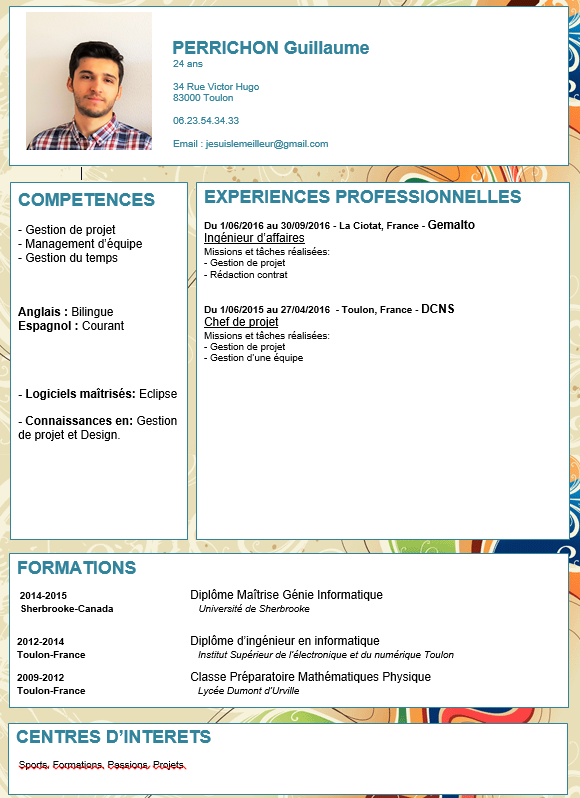
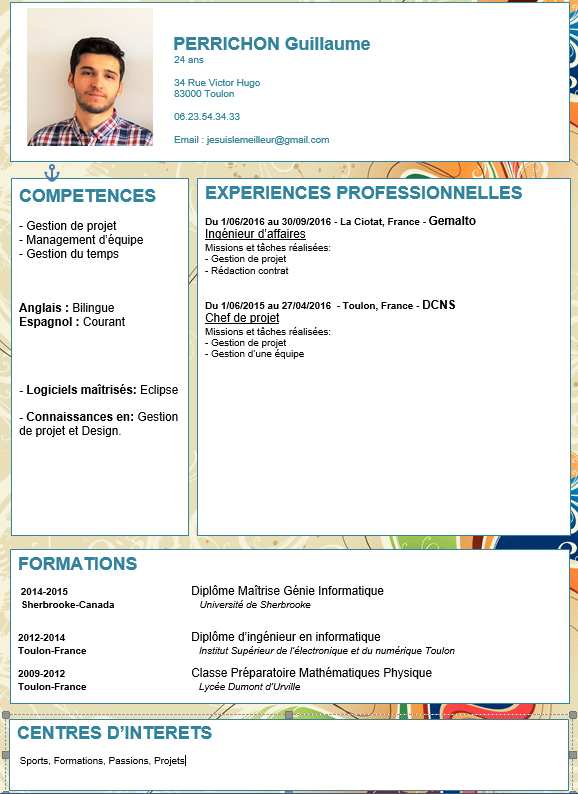
Cv intéractif
Image améliorée et centrée

Changed region(s): [[0.0, 0.0, 1.0, 1.0]]

diff --git a/app/mooc/mooc1/chapitres/chapitre3.php b/app/mooc/mooc1/chapitres/chapitre3.php
@@ -290,18 +290,18 @@ $idChap;
 				<div class="x_content" style="overflow:auto;" >
 					<p> Cliquez sur les erreurs de ce CV pour marquer des points, attention à ne pas cliquer de partout sinon vous en perdrez.<br> Il y a 5 erreurs et vous disposez de 5 clics. A vous de jouer !<p>
 					<br>
-                	<img  style="text-align:center;" id="fauxcv" src="../mooc/mooc1/chapitres/images/fauxcv2.png" usemap="#map1" onclick="diminueScore();compter();"> 
+                	<img style="margin:0 auto; display:block;" id="fauxcv" src="../mooc/mooc1/chapitres/images/fauxcv2.png" usemap="#map1" onclick="diminueScore();compter();"> 
     				<map name="map1">
 
-        				<area style="text-decoration:none; cursor:default;" shape="rect" coords="27,15,153,149" onclick="augmenteScore(this.id);compter();" />
+        				<area style="text-decoration:none; cursor:default;" shape="rect" coords="28,8,154,146" onclick="augmenteScore(this.id);compter();" />
 
-    					<area style="text-decoration:none; cursor:default;" shape="rect" coords="172,39,374,57" onclick="augmenteScore(this.id);compter();" />
+    					<area style="text-decoration:none; cursor:default;" shape="rect" coords="172,35,375,54" onclick="augmenteScore(this.id);compter();" />
 
-    					<area style="text-decoration:none; cursor:default;" shape="rect" coords="172,137,337,152" onclick="augmenteScore(this.id);compter();" />
+    					<area style="text-decoration:none; cursor:default;" shape="rect" coords="203,183,531,201" onclick="augmenteScore(this.id);compter();" />
 
-    					<area style="text-decoration:none; cursor:default;" shape="rect" coords="18,560,135,575" onclick="augmenteScore(this.id);compter();" />
+    					<area style="text-decoration:none; cursor:default;" shape="rect" coords="170,132,334,148" onclick="augmenteScore(this.id);compter();" />
 
-    					<area style="text-decoration:none; cursor:default;" shape="rect" coords="207,189,523,203" onclick="augmenteScore(this.id);compter();" />
+    					<area style="text-decoration:none; cursor:default;" shape="rect" coords="13,552,141,572" onclick="augmenteScore(this.id);compter();" />
 
     				</map>
 
